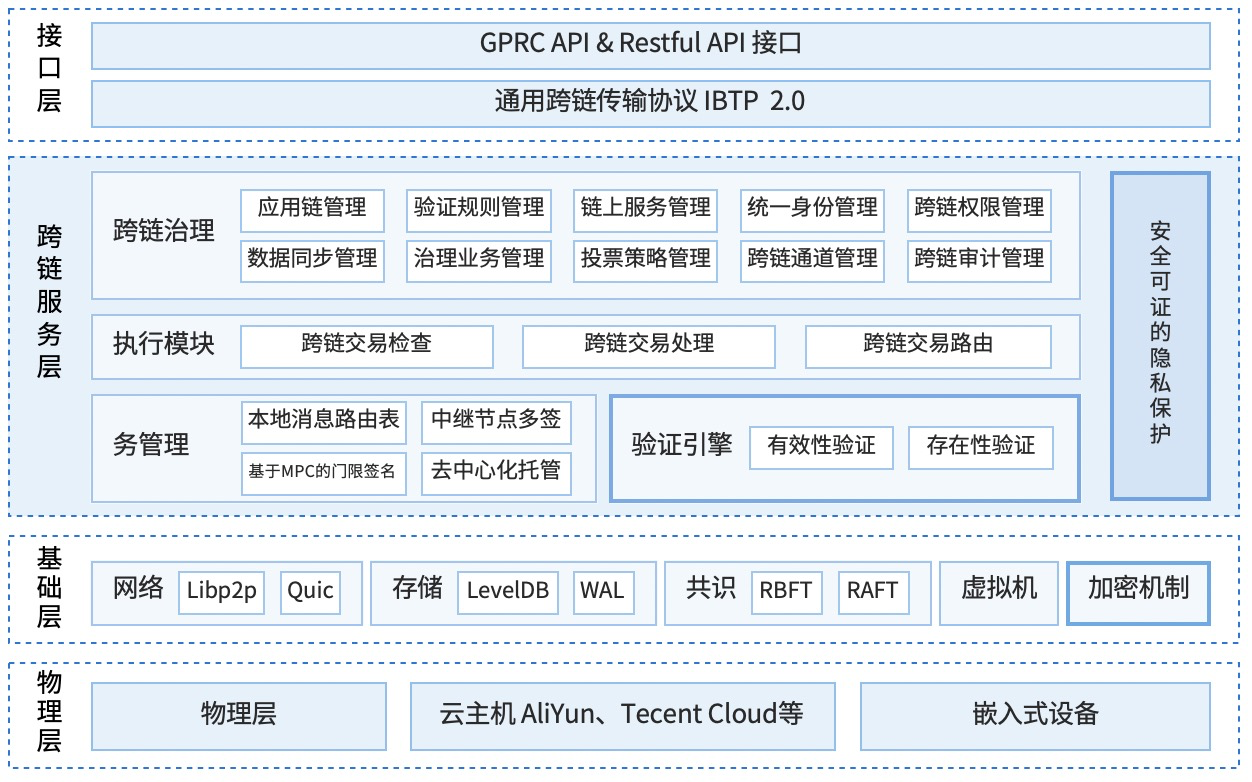
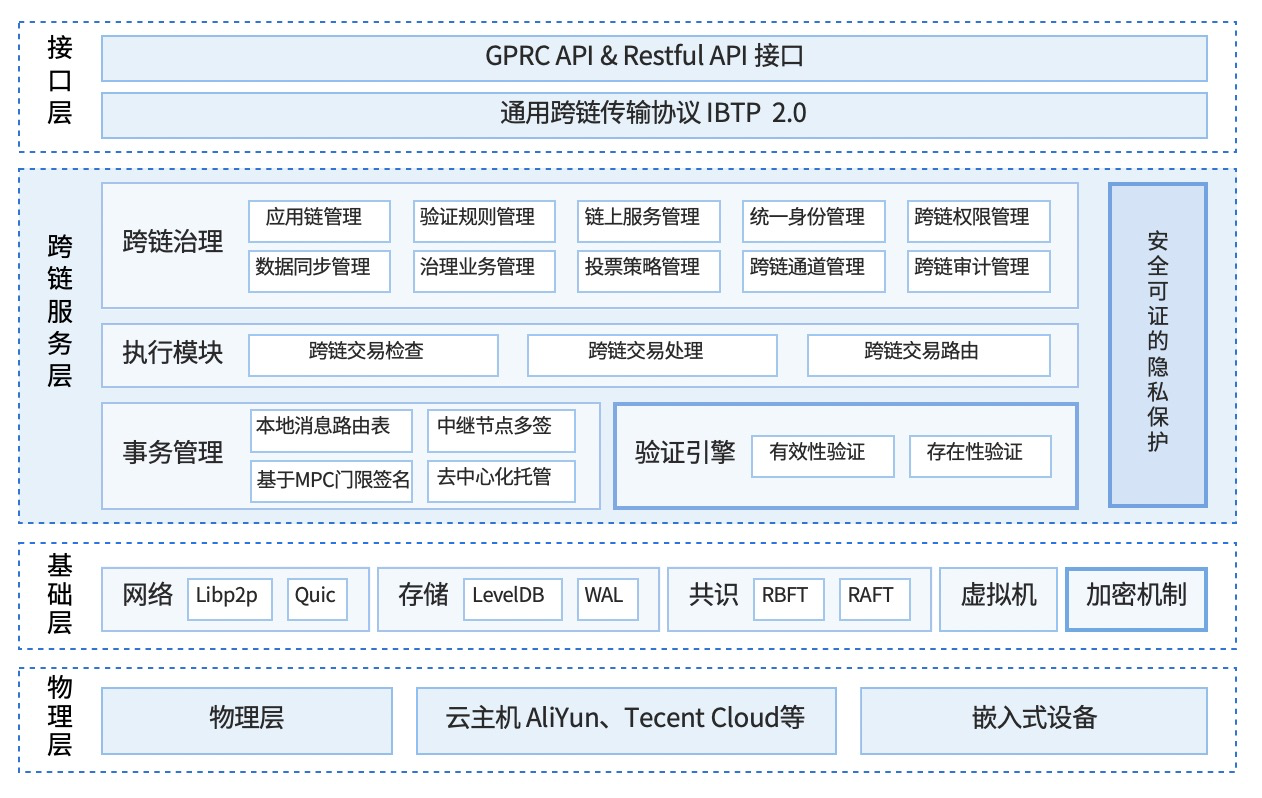
update release-2.0

Changed region(s): [[0.0, 0.0, 0.9968, 0.9821]]

diff --git a/docs/bitxhub/quick_start/build_cross_network/single_bitxhub/deploy_pier.md b/docs/bitxhub/quick_start/build_cross_network/single_bitxhub/deploy_pier.md
@@ -177,7 +177,7 @@ gas_limit = 0x5f5e100
     - broker.abi可以使用示例，也可以使用您自己编译/部署broker合约时返回的abi；
     - ether.validators和validating.wasm一般不需要修改,pier.toml为pier配置模板，暂未使用，可不做更改；
     - ethereum.toml是需要重点修改的，需要根据应用链实际情况填写 **ethereum网络地址**、**broker合约地址及业务合约abi**，**账户的key**，示例如下：
-        - `addr`: 如果是本地启动的以太坊私链或者参考[goduck关于应用链的操作](../../../../goduck/appchain/#_1)启动的应用链，地址应为`ws://localhost:8546`；如果，地址应为`ws://host.docker.internal:8546`；
+        - `addr`: 如果是本地启动的以太坊私链或者参考[goduck关于应用链的操作](../../../../goduck/appchain/#_1)启动的应用链，地址应为`ws://localhost:8546`；如果是使用docker启动的应用链，地址应为`ws://host.docker.internal:8546`；
         - `nanme`: 应用链名称，用户可自定义；
         - `contract_address`: broker合约地址，如果是本地启动的以太坊私链，地址更换为正确的合约地址，如果使用goduck启动应用链，地址为`0xD3880ea40670eD51C3e3C0ea089fDbDc9e3FBBb4`；
         - `key_path`: 以太坊账户私钥，如果为本地启动的以太坊私链，地址为`${datadir}/data/keystore`；

diff --git a/docs/bitxhub/faq.md b/docs/bitxhub/faq.md
@@ -82,7 +82,22 @@ min_confirm = 0
 …………
 ```
 
+### 3. packr包的相关报错
 
+需要将当前的packr包进行更新。
+
+```shell
+# 方法一：自行下载packr2包
+# 查询当前go的版本号：
+$ go env GOVERSION
+# go版本小于1.16时执行：
+$ go install github.com/gobuffalo/packr/v2/packr2@v2.8.3
+# go版本大于1.16时执行：
+$ go get github.com/gobuffalo/packr/v2/packr2@v2.8.3
+
+# 方法二：使用项目内置脚本更新packr包
+$ make prepare
+```
 
 ## 跨链技术
 
